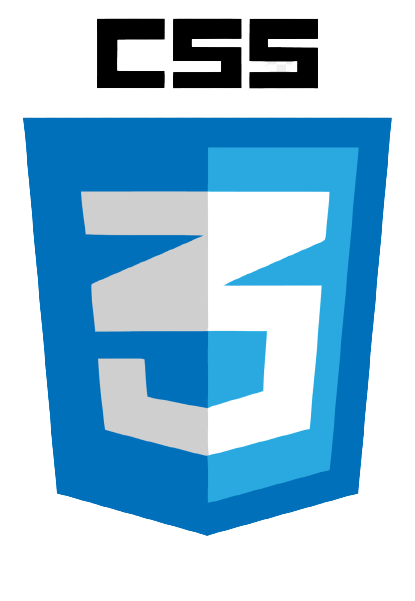
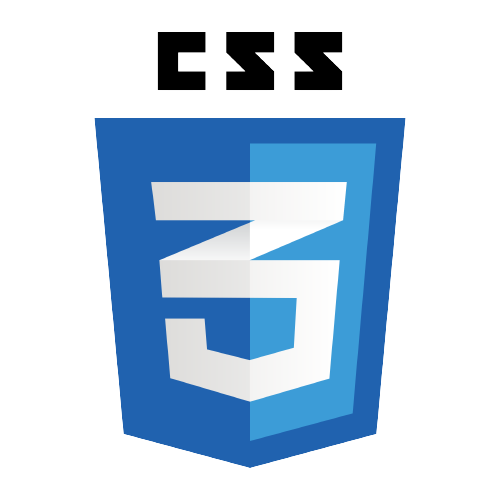
added images to assets

diff --git a/README.md b/README.md
@@ -16,9 +16,16 @@ I'm an undergraduate student at IJSE, looking forward to achieve a greater succe
 [<img src='https://cdn.jsdelivr.net/npm/simple-icons@3.0.1/icons/instagram.svg' alt='instagram' height='40'>](https://www.instagram.com/___dark_angel_00/)  
 
 
+<img src = "assets/images/html-logo4.png" width = "80" height = "80"/> 
+<img src = "assets/images/html_css-removebg-preview.png" width = "80"/>
 assets/images/afterEffects-logo.png
 assets/images/css.png
 assets/images/html-logo4.png
 assets/images/java-logo2.png
 assets/images/mysql.png
 assets/images/photoshop-logo.png
+assets/images/premierePro-logo.png
+assets/images/python-logo1.png
+
+assets/images/CSS-logo-removebg-preview.png
+assets/images/CSS-logo1-removebg-preview.png
